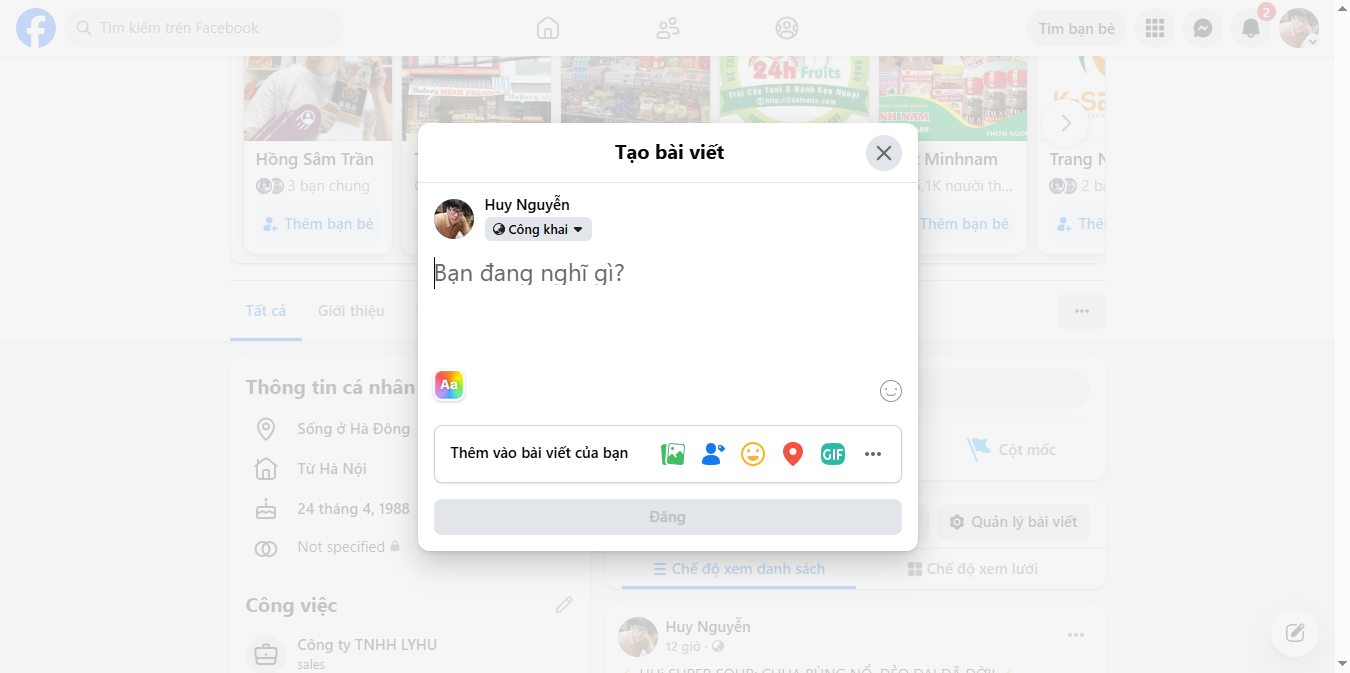
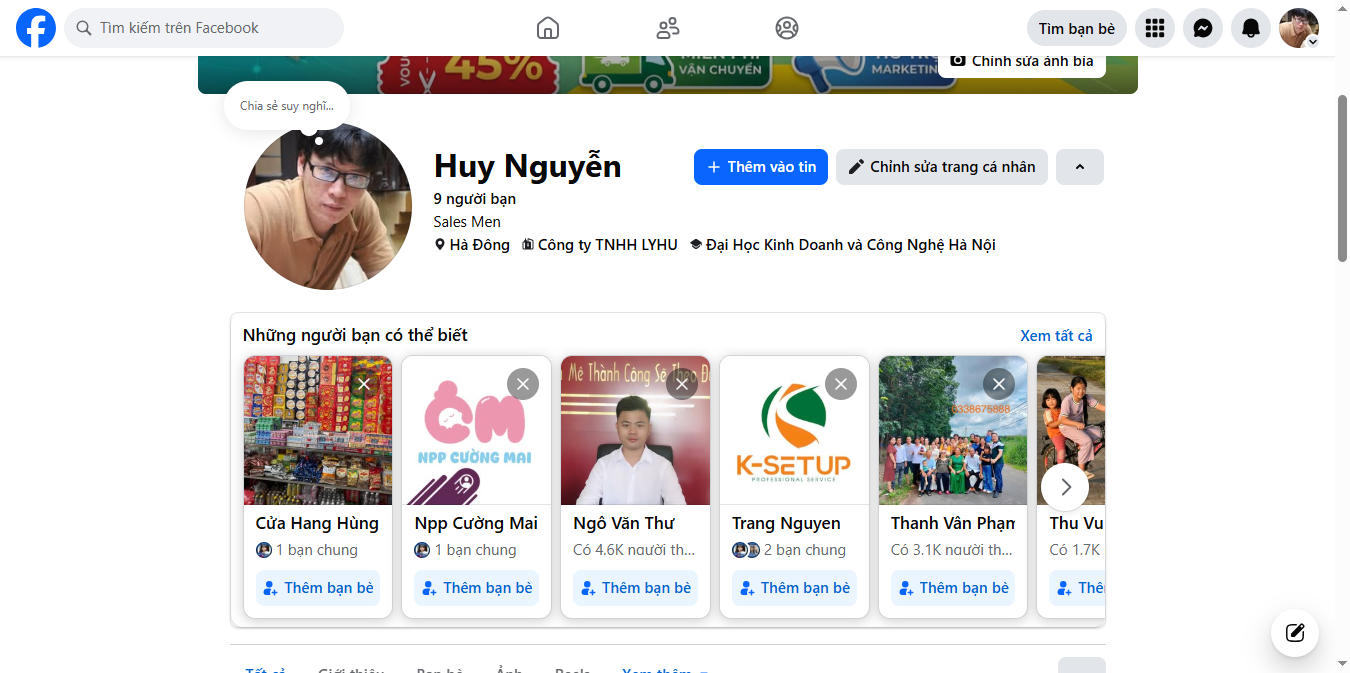
fix: robust retry + coordinate fallback

Changed region(s): [[0.0, 0.0, 0.9956, 1.0], [0.9644, 0.1248, 1.0, 0.4056], [0.9333, 0.9361, 0.9644, 0.9673]]

diff --git a/scripts/marketing/auto_post_profile.js b/scripts/marketing/auto_post_profile.js
@@ -95,84 +95,84 @@ function spinText(text) {
             throw new Error("Chưa đăng nhập Facebook! Chạy manual_login.js trước.");
         }
 
-        // BƯỚC 4a: Đóng mọi popup/notification trước khi click composer
-        console.log("[POST] Bước 2: Scroll lên đầu trang + đóng popup...");
+        // BƯỚC 4a: Chờ page load đầy đủ, scroll lên đầu
+        console.log("[POST] Bước 2: Chờ page load xong + scroll lên đầu...");
+        await delay(rdn(5000, 7000)); // Chờ page render đầy đủ
         await page.evaluate(() => window.scrollTo(0, 0));
-        await delay(500);
+        await delay(2000);
         
-        // Đóng bất kỳ dialog/popup nào đang mở (Thông báo, Chat, etc.)
-        await page.keyboard.press('Escape');
-        await delay(500);
+        // Đóng popup nhẹ nhàng (chỉ 1 Escape, tránh đóng mất element)
         await page.keyboard.press('Escape');
         await delay(1000);
         
-        console.log("[POST] Tìm ô 'Bạn đang nghĩ gì?' (KHÔNG phải comment box)...");
+        // TÌM + CLICK COMPOSER VỚI RETRY (tối đa 5 lần)
+        console.log("[POST] Tìm ô 'Bạn đang nghĩ gì?'...");
+        let composerClicked = false;
         
-        // Tìm NÚT BỌC NGOÀI (visible, clickable), KHÔNG phải textbox ẩn bên trong
-        const composerHandle = await page.evaluateHandle(() => {
-            // Chiến lược 1: Tìm SPAN/DIV chứa CHÍNH XÁC text "Bạn đang nghĩ gì?"
-            // KHÔNG tìm "Chia sẻ suy nghĩ" (đó là nút Notes/Ghi chú, không phải composer)
-            const allElements = Array.from(document.querySelectorAll('div[role="button"], span'));
-            let el = allElements.find(b => {
-                const txt = (b.innerText || '').trim();
-                const rect = b.getBoundingClientRect();
-                // Phải visible, kích thước lớn (ô composer rộng ~300px+), và chứa đúng text
-                return rect.width > 200 && rect.height > 10 && 
-                       txt.length > 5 && txt.length < 50 && (
-                    txt.includes("Bạn đang nghĩ gì") || 
-                    txt.includes("What's on your mind")
-                    // KHÔNG bao gồm "Chia sẻ suy nghĩ" - đó là Notes!
-                );
-            });
-            if (el) return el;
-            
-            // Chiến lược 2: Tìm div[aria-placeholder] chứa "nghĩ gì" 
-            // rồi lấy PARENT có kích thước lớn hơn (nút bọc ngoài)
-            const placeholders = Array.from(document.querySelectorAll('div[aria-placeholder]'));
-            let textbox = placeholders.find(p => {
-                const ph = (p.getAttribute('aria-placeholder') || '').toLowerCase();
-                return (ph.includes('nghĩ gì') || ph.includes('on your mind')) &&
-                       !ph.includes('bình luận') && !ph.includes('comment');
-            });
-            if (textbox) {
-                // Walk up đến parent có kích thước lớn - đó là nút click được
-                let parent = textbox.parentElement;
-                for (let i = 0; i < 5 && parent; i++) {
-                    const rect = parent.getBoundingClientRect();
-                    if (rect.width > 100 && rect.height > 20) {
-                        return parent;
+        for (let retry = 0; retry < 5; retry++) {
+            const composerInfo = await page.evaluate(() => {
+                // Chiến lược 1: Tìm SPAN/DIV chứa text "Bạn đang nghĩ gì?"
+                const allElements = Array.from(document.querySelectorAll('div[role="button"], span'));
+                let el = allElements.find(b => {
+                    const txt = (b.innerText || '').trim();
+                    const rect = b.getBoundingClientRect();
+                    return rect.width > 200 && rect.height > 10 && 
+                           txt.length > 5 && txt.length < 50 && (
+                        txt.includes("Bạn đang nghĩ gì") || 
+                        txt.includes("What's on your mind")
+                    );
+                });
+                if (el) {
+                    const rect = el.getBoundingClientRect();
+                    return { found: true, x: rect.x + rect.width / 2, y: rect.y + rect.height / 2, w: rect.width, h: rect.height, strategy: 'text' };
+                }
+                
+                // Chiến lược 2: Tìm div[aria-placeholder] chứa "nghĩ gì"
+                const placeholders = Array.from(document.querySelectorAll('div[aria-placeholder]'));
+                let textbox = placeholders.find(p => {
+                    const ph = (p.getAttribute('aria-placeholder') || '').toLowerCase();
+                    return (ph.includes('nghĩ gì') || ph.includes('on your mind')) &&
+                           !ph.includes('bình luận') && !ph.includes('comment');
+                });
+                if (textbox) {
+                    // Walk up parent để lấy element lớn hơn
+                    let parent = textbox.parentElement;
+                    for (let i = 0; i < 5 && parent; i++) {
+                        const rect = parent.getBoundingClientRect();
+                        if (rect.width > 200 && rect.height > 20) {
+                            return { found: true, x: rect.x + rect.width / 2, y: rect.y + rect.height / 2, w: rect.width, h: rect.height, strategy: 'placeholder-parent' };
+                        }
+                        parent = parent.parentElement;
                     }
-                    parent = parent.parentElement;
+                    const rect = textbox.getBoundingClientRect();
+                    if (rect.width > 0) {
+                        return { found: true, x: rect.x + rect.width / 2, y: rect.y + rect.height / 2, w: rect.width, h: rect.height, strategy: 'placeholder' };
+                    }
                 }
-                return textbox; // Fallback: trả về textbox gốc
-            }
+                
+                return { found: false };
+            });
             
-            return null;
-        });
-        
-        const composerElement = composerHandle.asElement();
-        if (composerElement) {
-            // Scroll vào view trước
-            await composerElement.evaluate(el => el.scrollIntoView({ block: 'center' }));
-            await delay(1000);
-            
-            const box = await composerElement.boundingBox();
-            if (box && box.width > 0 && box.height > 0) {
-                console.log(`[POST] Tìm thấy composer tại (${Math.round(box.x)}, ${Math.round(box.y)}), size ${Math.round(box.width)}x${Math.round(box.height)}`);
-                await page.mouse.click(box.x + box.width / 2, box.y + box.height / 2);
+            if (composerInfo.found) {
+                console.log(`[POST] Tìm thấy composer (${composerInfo.strategy}) tại (${Math.round(composerInfo.x)}, ${Math.round(composerInfo.y)}), size ${Math.round(composerInfo.w)}x${Math.round(composerInfo.h)}`);
+                await page.mouse.click(composerInfo.x, composerInfo.y);
                 console.log("[POST] Đã click vào ô compose.");
-            } else {
-                console.log("[POST] Composer size 0, thử keyboard Tab navigation...");
-                for (let i = 0; i < 5; i++) {
-                    await page.keyboard.press('Tab');
-                    await delay(200);
-                }
-                await page.keyboard.press('Enter');
+                composerClicked = true;
+                break;
             }
-            await composerHandle.dispose();
-        } else {
-            await composerHandle.dispose();
-            console.log("[POST] Không tìm thấy ô compose trên trang cá nhân.");
+            
+            console.log(`[POST] Chưa tìm thấy composer, chờ thêm... (${retry + 1}/5)`);
+            await delay(3000);
+            // Scroll lại lên đầu (phòng trường hợp bị scroll)
+            await page.evaluate(() => window.scrollTo(0, 0));
+        }
+        
+        // FALLBACK: Nếu vẫn không tìm thấy, thử click vào vị trí gần đúng
+        if (!composerClicked) {
+            console.log("[POST] ⚠ Không tìm thấy composer bằng selector, thử click vào vị trí ước lượng...");
+            // Vị trí composer trên profile page thường ở khoảng (650, 260)
+            await page.mouse.click(650, 260);
+            await delay(1000);
         }
         
         // Chờ composer dialog "Tạo bài viết" xuất hiện
